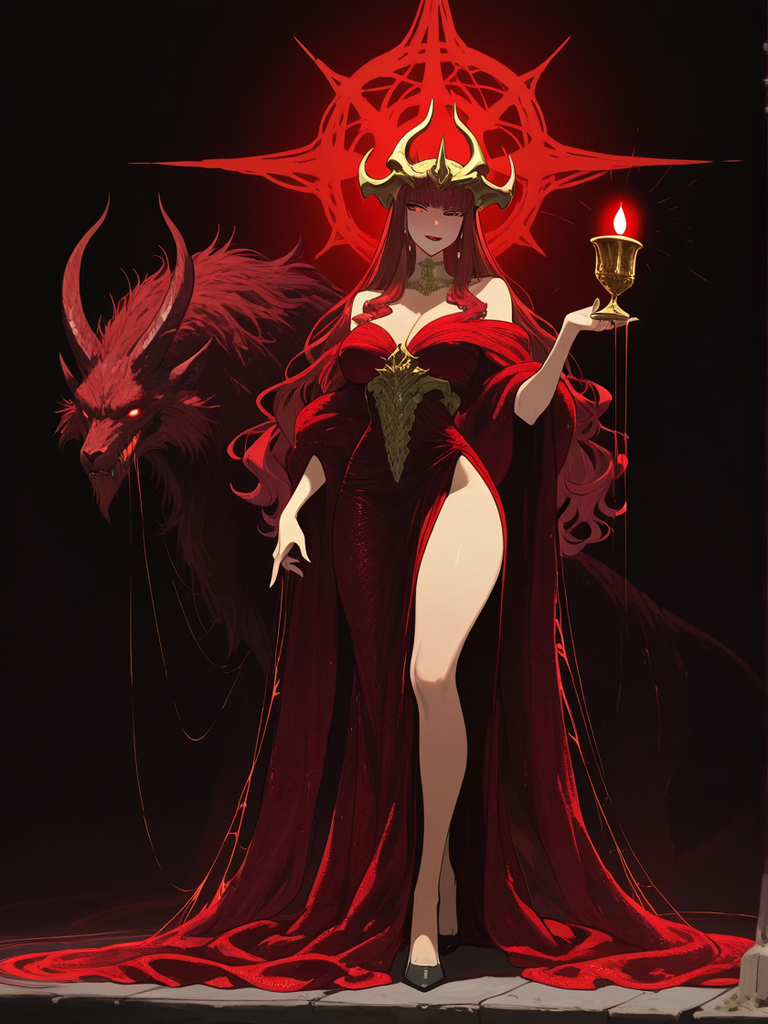
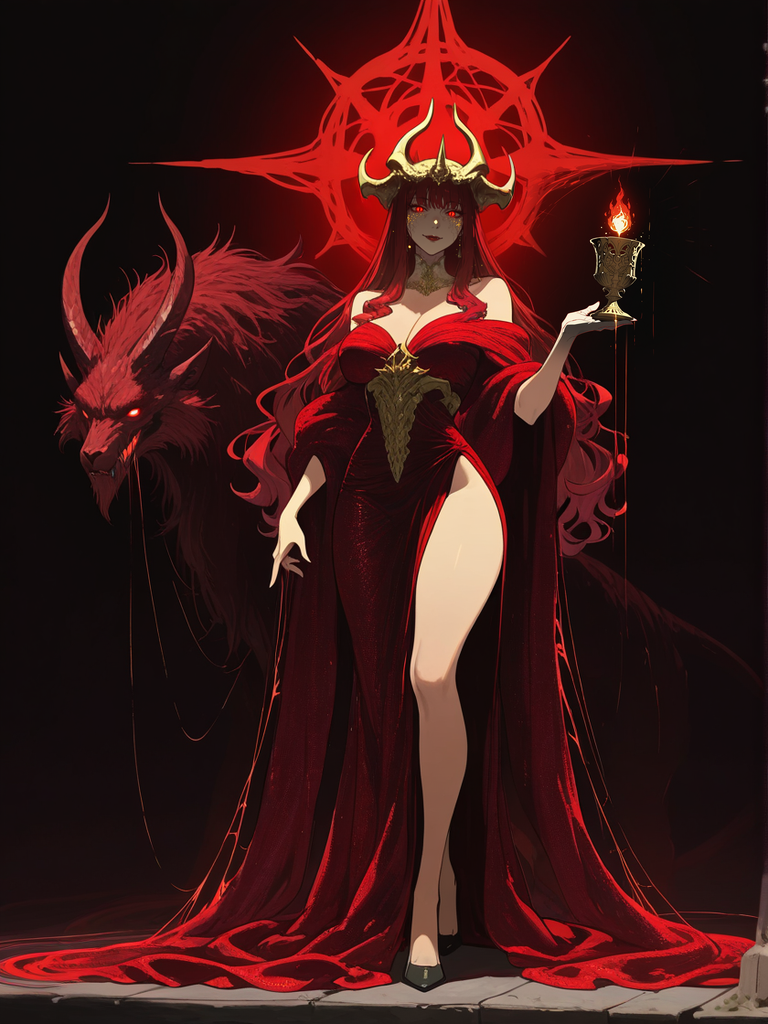
Babalon foil: rosto e taça redesenhados em alta resolução (detailer)

Changed region(s): [[0.6875, 0.1562, 0.8438, 0.3438], [0.5, 0.1562, 0.6562, 0.2812]]

diff --git a/arte/detailer.py b/arte/detailer.py
@@ -1,0 +1,38 @@
+"""Detailer: recorta uma região da arte, amplia para 1024, redesenha com S.A.R.S (img2img) e cola de volta com borda
+suave. Uso: python detailer.py <arte.png> <saida.png> x0,y0,x1,y1 "<tags>" [denoise] [seed]"""
+import sys, os
+sys.path.insert(0, os.path.dirname(os.path.abspath(__file__)))
+import pipeline_pixel as PP
+from PIL import Image, ImageDraw, ImageFilter
+src, dst, caixa, tags = sys.argv[1], sys.argv[2], [int(v) for v in sys.argv[3].split(",")], sys.argv[4]
+den = float(sys.argv[5]) if len(sys.argv) > 5 else 0.5
+seed = int(sys.argv[6]) if len(sys.argv) > 6 else 4242
+im = Image.open(src).convert("RGB")
+x0, y0, x1, y1 = caixa
+reg = im.crop(caixa)
+w, h = reg.size
+k = 1024 / max(w, h)
+gw, gh = (round(w * k / 8) * 8, round(h * k / 8) * 8)
+nome = PP._upload(reg.resize((gw, gh), Image.LANCZOS), "detailer.png")
+neg = PP.ANIME_NEG.replace("huge eyes, ", "") + ", blurry, lowres, deformed hand, extra fingers, fused fingers, nude, nipples"
+wf = {"1": {"class_type": "CheckpointLoaderSimple", "inputs": {"ckpt_name": "S.A.R.S.safetensors"}},
+      "2": {"class_type": "CLIPSetLastLayer", "inputs": {"stop_at_clip_layer": -2, "clip": ["1", 1]}},
+      "3": {"class_type": "CLIPTextEncode", "inputs": {"text": PP.ANIME_POS + tags, "clip": ["2", 0]}},
+      "4": {"class_type": "CLIPTextEncode", "inputs": {"text": neg, "clip": ["2", 0]}},
+      "9": {"class_type": "LoadImage", "inputs": {"image": nome}},
+      "10": {"class_type": "VAEEncode", "inputs": {"pixels": ["9", 0], "vae": ["1", 2]}},
+      "6": {"class_type": "KSampler", "inputs": {"seed": seed, "steps": 30, "cfg": 5.5, "sampler_name": "euler_ancestral", "scheduler": "normal",
+            "denoise": den, "model": ["1", 0], "positive": ["3", 0], "negative": ["4", 0], "latent_image": ["10", 0]}},
+      "7": {"class_type": "VAEDecode", "inputs": {"samples": ["6", 0], "vae": ["1", 2]}},
+      "8": {"class_type": "SaveImage", "inputs": {"filename_prefix": "gk_detailer", "images": ["7", 0]}}}
+tmp = dst + ".reg.png"
+PP._rodar(wf, tmp)
+novo = Image.open(tmp).convert("RGB").resize((w, h), Image.LANCZOS)
+mask = Image.new("L", (w, h), 0)
+m = int(min(w, h) * 0.12)
+ImageDraw.Draw(mask).rounded_rectangle((m, m, w - m, h - m), m, fill=255)
+mask = mask.filter(ImageFilter.GaussianBlur(m * 0.6))
+im.paste(novo, (x0, y0), mask)
+im.save(dst)
+os.remove(tmp)
+print("ok", dst)
